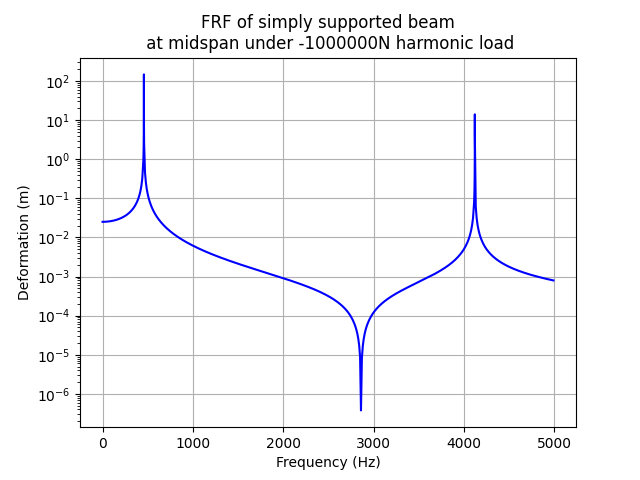
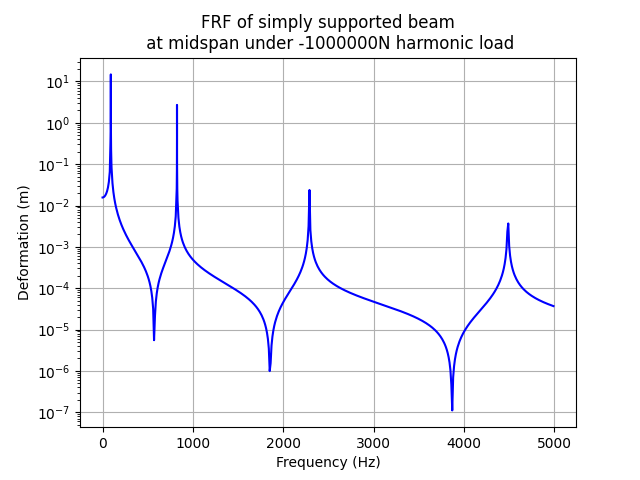
minor changes in simplesupport.py

diff --git a/simplesupport.py b/simplesupport.py
@@ -18,7 +18,7 @@ import V2.postprocess as pstprcs
 steel = mat.Material()      # Using the default material
 
 # __ Cross-section ____________________
-section = sec.Rectangle(width=0.05, thickness=0.05)   # Using the default cross-section (0.01 X 0.01)
+section = sec.Rectangle(width=0.01, thickness=0.01)   # Using the default cross-section (0.01 X 0.01)
 
 # __ Simple Supported Beam ____________
 beam1 = defin.Beam_element(
@@ -43,7 +43,7 @@ loadpoint = (0.25, 0)
 
 simplesupport1 = lds.PinSupport(nodemap[simplesupportpoint1])
 simplesupport2 = lds.PinSupport(nodemap[simplesupportpoint2])
-Load1 = lds.PointLoad(nodemap[loadpoint], Fy=-1000000)
+Load1 = lds.PointLoad(nodemap[loadpoint], Fy=-1000)
 
 loadlist = [Load1]
 boundaryconditionslist = [simplesupport1, simplesupport2]
